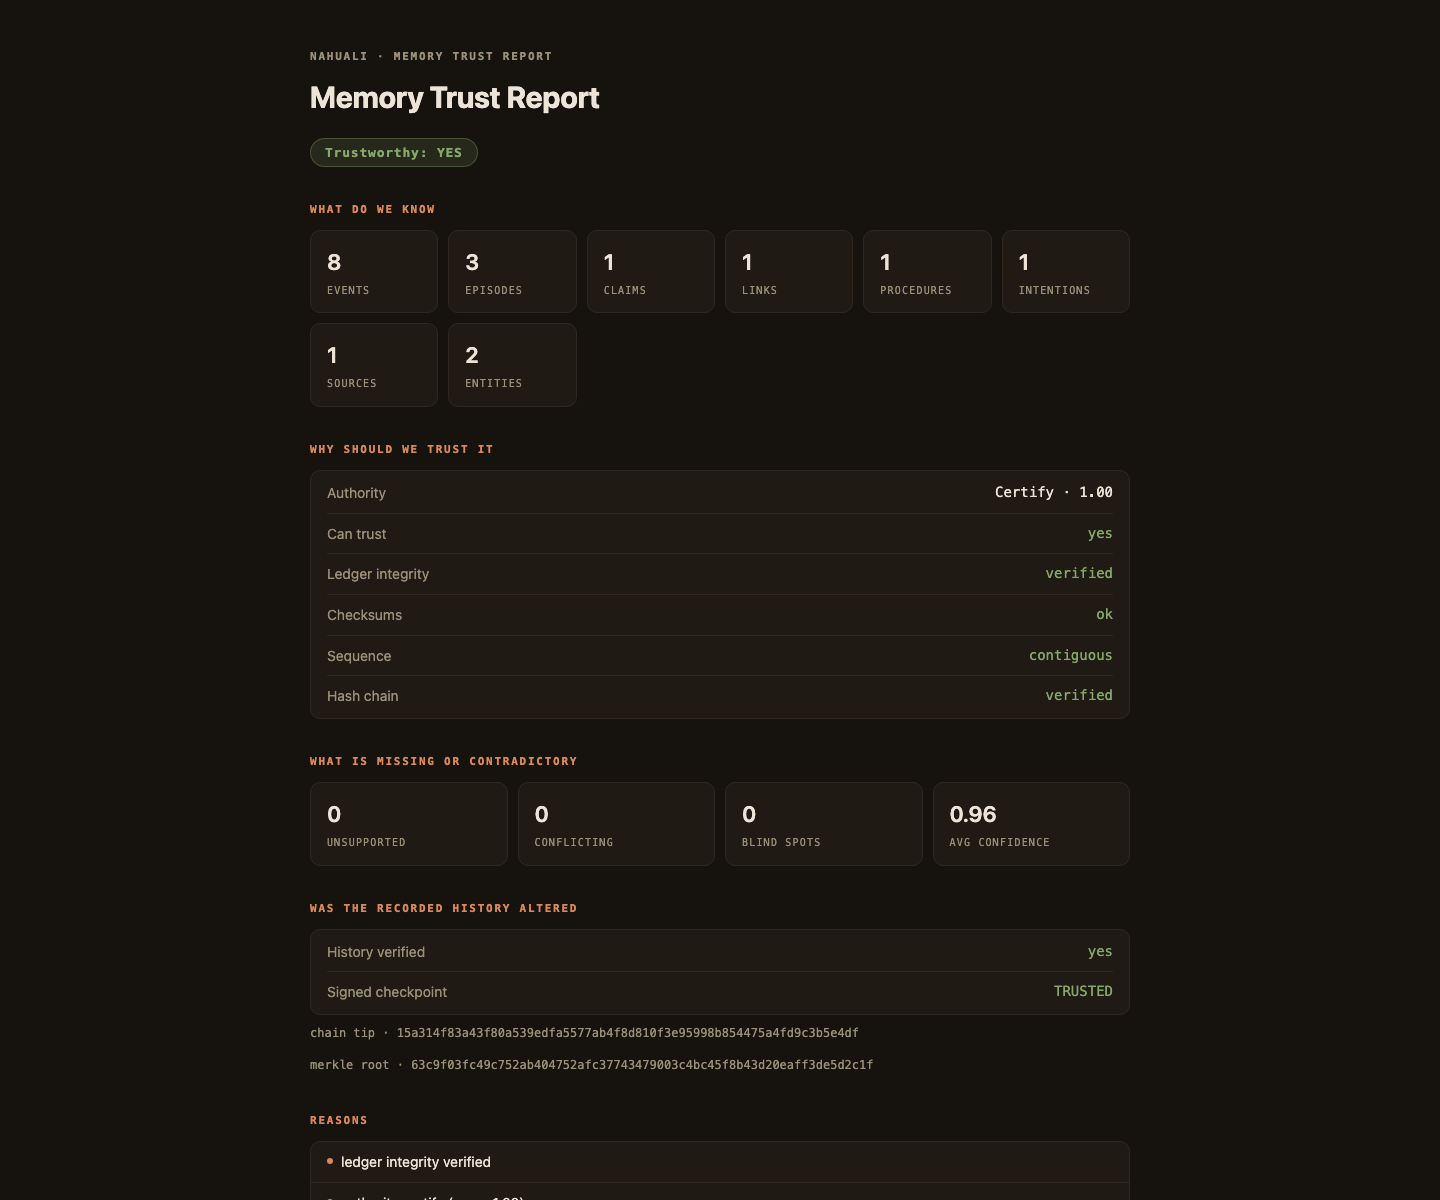
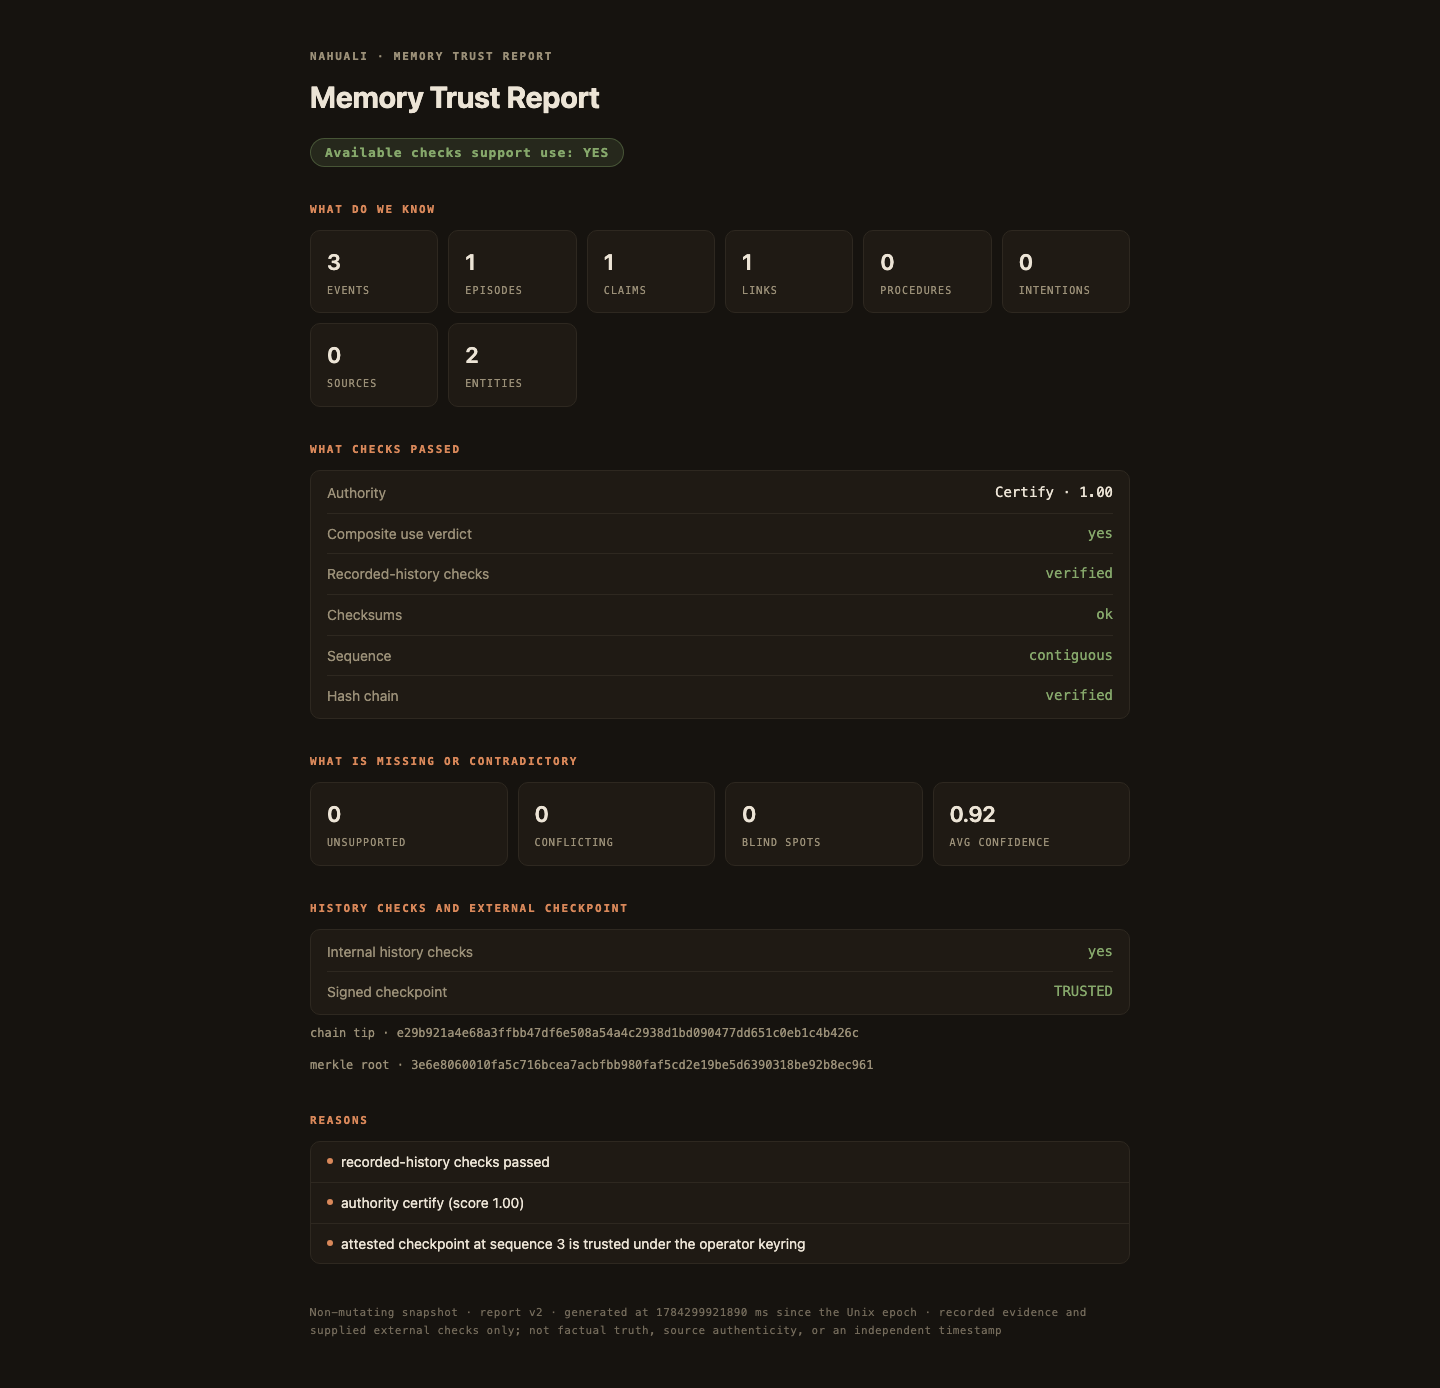
docs: refresh trust evidence examples

diff --git a/examples/sample-trust-report.html b/examples/sample-trust-report.html
@@ -26,4 +26,4 @@ ul.reasons{list-style:none;padding:0;margin:0;background:var(--panel);border:1px
 ul.reasons li{padding:9px 16px 9px 30px;position:relative;border-bottom:1px solid var(--line);font-size:14px}
 ul.reasons li:before{content:"";position:absolute;left:16px;top:16px;width:6px;height:6px;border-radius:50%;background:var(--accent)}
 ul.reasons li:last-child{border-bottom:none}
-footer{margin-top:40px;color:var(--ink-dim);font:11px/1.6 ui-monospace,monospace;letter-spacing:.04em}</style></head><body><div class="wrap"><div class="kicker">Nahuali · memory trust report</div><h1>Memory Trust Report</h1><div class="verdict ok">Trustworthy: YES</div><section><div class="q">What do we know</div><div class="grid"><div class="card"><div class="n">8</div><div class="l">events</div></div><div class="card"><div class="n">3</div><div class="l">episodes</div></div><div class="card"><div class="n">1</div><div class="l">claims</div></div><div class="card"><div class="n">1</div><div class="l">links</div></div><div class="card"><div class="n">1</div><div class="l">procedures</div></div><div class="card"><div class="n">1</div><div class="l">intentions</div></div><div class="card"><div class="n">1</div><div class="l">sources</div></div><div class="card"><div class="n">2</div><div class="l">entities</div></div></div></section><section><div class="q">Why should we trust it</div><div class="rows"><div class="row"><span class="k">Authority</span><span class="v">Certify · 1.00</span></div><div class="row"><span class="k">Can trust</span><span class="v ok">yes</span></div><div class="row"><span class="k">Ledger integrity</span><span class="v ok">verified</span></div><div class="row"><span class="k">Checksums</span><span class="v ok">ok</span></div><div class="row"><span class="k">Sequence</span><span class="v ok">contiguous</span></div><div class="row"><span class="k">Hash chain</span><span class="v ok">verified</span></div></div></section><section><div class="q">What is missing or contradictory</div><div class="grid"><div class="card"><div class="n">0</div><div class="l">unsupported</div></div><div class="card"><div class="n">0</div><div class="l">conflicting</div></div><div class="card"><div class="n">0</div><div class="l">blind spots</div></div><div class="card"><div class="n">0.96</div><div class="l">avg confidence</div></div></div></section><section><div class="q">Was the recorded history altered</div><div class="rows"><div class="row"><span class="k">History verified</span><span class="v ok">yes</span></div><div class="row"><span class="k">Signed checkpoint</span><span class="v ok">TRUSTED</span></div></div><div class="tip">chain tip · 15a314f83a43f80a539edfa5577ab4f8d810f3e95998b854475a4fd9c3b5e4df</div><div class="tip">merkle root · 63c9f03fc49c752ab404752afc37743479003c4bc45f8b43d20eaff3de5d2c1f</div></section><section><div class="q">Reasons</div><ul class="reasons"><li>ledger integrity verified</li><li>authority certify (score 1.00)</li><li>attested checkpoint at sequence 8 is trusted under the operator keyring</li></ul></section><footer>Non-mutating snapshot · report v2 · generated at 1784245955944 ms since the Unix epoch</footer></div></body></html>
+footer{margin-top:40px;color:var(--ink-dim);font:11px/1.6 ui-monospace,monospace;letter-spacing:.04em}</style></head><body><div class="wrap"><div class="kicker">Nahuali · memory trust report</div><h1>Memory Trust Report</h1><div class="verdict ok">Available checks support use: YES</div><section><div class="q">What do we know</div><div class="grid"><div class="card"><div class="n">3</div><div class="l">events</div></div><div class="card"><div class="n">1</div><div class="l">episodes</div></div><div class="card"><div class="n">1</div><div class="l">claims</div></div><div class="card"><div class="n">1</div><div class="l">links</div></div><div class="card"><div class="n">0</div><div class="l">procedures</div></div><div class="card"><div class="n">0</div><div class="l">intentions</div></div><div class="card"><div class="n">0</div><div class="l">sources</div></div><div class="card"><div class="n">2</div><div class="l">entities</div></div></div></section><section><div class="q">What checks passed</div><div class="rows"><div class="row"><span class="k">Authority</span><span class="v">Certify · 1.00</span></div><div class="row"><span class="k">Composite use verdict</span><span class="v ok">yes</span></div><div class="row"><span class="k">Recorded-history checks</span><span class="v ok">verified</span></div><div class="row"><span class="k">Checksums</span><span class="v ok">ok</span></div><div class="row"><span class="k">Sequence</span><span class="v ok">contiguous</span></div><div class="row"><span class="k">Hash chain</span><span class="v ok">verified</span></div></div></section><section><div class="q">What is missing or contradictory</div><div class="grid"><div class="card"><div class="n">0</div><div class="l">unsupported</div></div><div class="card"><div class="n">0</div><div class="l">conflicting</div></div><div class="card"><div class="n">0</div><div class="l">blind spots</div></div><div class="card"><div class="n">0.92</div><div class="l">avg confidence</div></div></div></section><section><div class="q">History checks and external checkpoint</div><div class="rows"><div class="row"><span class="k">Internal history checks</span><span class="v ok">yes</span></div><div class="row"><span class="k">Signed checkpoint</span><span class="v ok">TRUSTED</span></div></div><div class="tip">chain tip · e29b921a4e68a3ffbb47df6e508a54a4c2938d1bd090477dd651c0eb1c4b426c</div><div class="tip">merkle root · 3e6e8060010fa5c716bcea7acbfbb980faf5cd2e19be5d6390318be92b8ec961</div></section><section><div class="q">Reasons</div><ul class="reasons"><li>recorded-history checks passed</li><li>authority certify (score 1.00)</li><li>attested checkpoint at sequence 3 is trusted under the operator keyring</li></ul></section><footer>Non-mutating snapshot · report v2 · generated at 1784299921890 ms since the Unix epoch · recorded evidence and supplied external checks only; not factual truth, source authenticity, or an independent timestamp</footer></div></body></html>

diff --git a/crates/nahuali-core/examples/tamper_evidence.rs b/crates/nahuali-core/examples/tamper_evidence.rs
@@ -8,12 +8,16 @@
 //!
 //! It tells the story in four parts, entirely in memory and offline:
 //!   1. an honest, hash-chained ledger and its tip;
-//!   2. the operator signs that tip into a portable receipt;
+//!   2. the demo signs that tip into a portable receipt;
 //!   3. an attacker rewrites a historical event *and recomputes its checksum* —
 //!      the self-contained checksum is fooled, but the chain catches it;
 //!   4. the attacker goes further and re-chains the whole suffix so no link is
-//!      broken — the chain is now fooled, but the signed receipt is not, because
-//!      the tip changed and forging a fresh signature needs the private key.
+//!      broken — the live chain is internally consistent, but it no longer
+//!      matches the previously retained signed tip.
+//!
+//! The demo seed below is public and provides no independent authorization. A
+//! real deployment must authorize keys outside the ledger and retain the
+//! accepted checkpoint or freshness floor separately.
 //!
 //! The events here are built directly with the public `EventEnvelope` API to keep
 //! the demo dependency-free; on disk the engine writes exactly these chained
@@ -84,7 +88,7 @@ fn main() {
     // Part 2 — the operator signs the tip.
     let receipt =
         sign_chain_tip(DEMO_SEED_HEX, tip_sequence, &tip_hash).expect("signing the tip succeeds");
-    println!("2. The operator signs that tip with an Ed25519 key (the receipt).");
+    println!("2. The demo signs that tip with an Ed25519 key (the receipt).");
     println!("   public key: {}", receipt.public_key);
     println!(
         "   receipt verifies against the live tip: {}\n",
@@ -117,7 +121,7 @@ fn main() {
         None => println!("   (unexpected) chain reported intact\n"),
     }
 
-    // Part 4 — full suffix re-chain, then the signature catches it.
+    // Part 4 — full suffix re-chain, then compare with the retained signed tip.
     let mut rechained: Vec<EventEnvelope> = Vec::new();
     for (index, event) in ledger.iter().enumerate() {
         let previous = rechained.last().map(EventEnvelope::chain_hash);
@@ -145,9 +149,12 @@ fn main() {
         "   the signed receipt no longer verifies: {}",
         verify_chain_tip(&receipt, new_sequence, &new_tip).unwrap()
     );
-    println!("   forging a fresh receipt would require the operator's private key.\n");
+    println!("   production trust also requires an external key policy and freshness floor.\n");
 
-    println!("Checksum proves an event is internally consistent.");
-    println!("The chain proves the history was not rewritten in place.");
-    println!("The signed tip proves the history was not rewritten at all.");
+    println!("A checksum detects a changed event unless the checksum is recomputed.");
+    println!(
+        "The next chain link detects a rewritten non-tip event unless the suffix is re-chained."
+    );
+    println!("A retained, authorized signed tip detects a mismatch with that checkpoint.");
+    println!("None of these checks proves content truth or checkpoint freshness.");
 }
